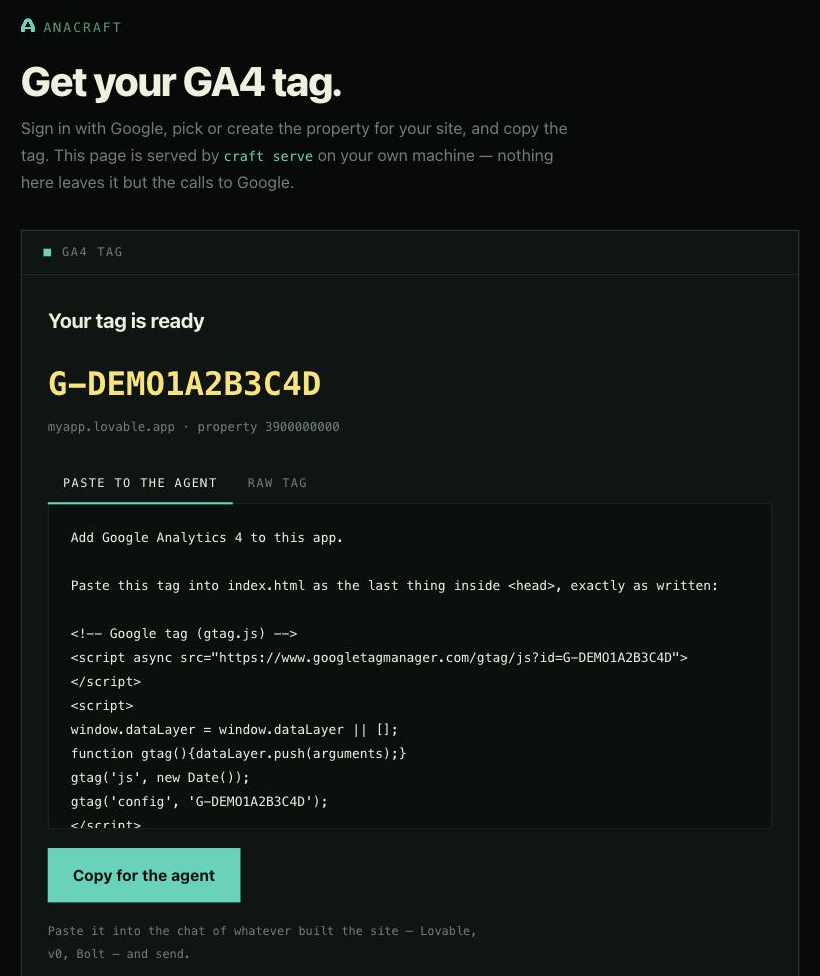
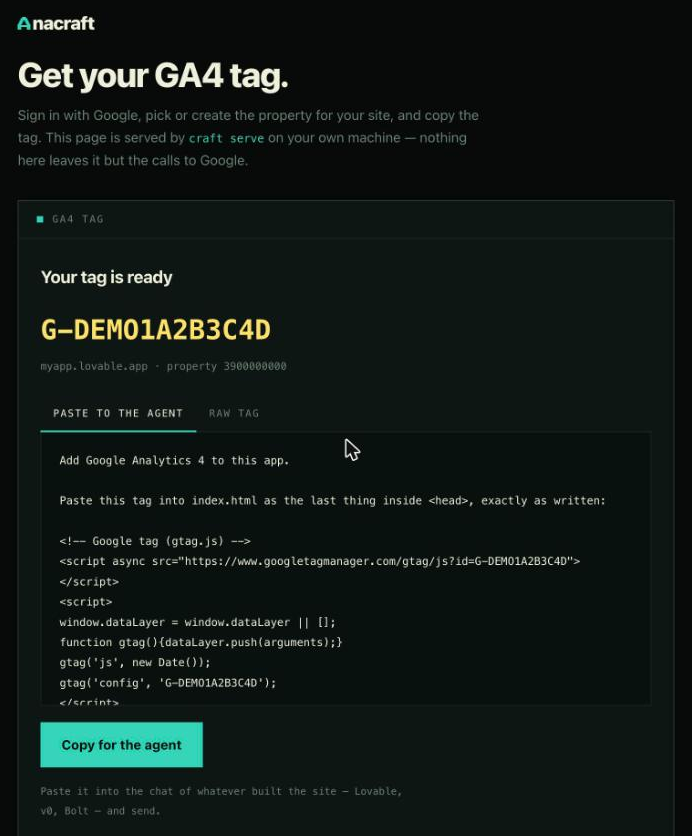
feat: craft serve wears the site's mark, and can throw a property away
Two things the page was missing.

The mark is the one the rest of the site wears — the pick is the A, so the word
beside it is "nacraft" and nothing is typed twice. Archivo is not in the page
and will not be: it fetches no font, so the heaviest system sans stands in at
the same size and tracking.

And a property can now be thrown into Google's trash from the row it sits on,
which is the other half of being able to make one — an app rebuilt three times
leaves three properties behind and the console is four screens away. It is the
same call `craft delete --all` makes, and opt-in twice the same way: the id in
the path and the same id again in `?confirm=`, two clicks on the row with the
second one saying what it is about to do. Google's delete is soft — 35 days in
a trash the console restores from — which is what makes offering it from a
page defensible at all.

`--demo` refuses it outright, with the rest of the writes.

diff --git a/assets/serve.html b/assets/serve.html
@@ -42,16 +42,27 @@
 
     .wrap { max-width: 720px; margin: 0 auto; }
 
+    /* The same mark the site wears: the pick is the A, so the word beside it
+       is "nacraft" and nothing has to be typed twice. Archivo is not here —
+       the page is self-contained and fetches no font — so the heaviest system
+       sans stands in, at the same size and tracking. */
     .brand {
       display: flex;
       align-items: baseline;
-      gap: 8px;
-      font-family: var(--mono);
-      font-size: 12px;
-      letter-spacing: .16em;
-      text-transform: uppercase;
-      color: var(--jade-deep);
-      margin-bottom: 18px;
+      gap: 0;
+      font-weight: 900;
+      font-size: 20px;
+      letter-spacing: -.03em;
+      color: var(--white);
+      margin-bottom: 20px;
+    }
+
+    .brand svg {
+      width: 14px;
+      height: 14px;
+      display: block;
+      margin-right: 2px;
+      color: var(--jade);
     }
 
     h1 {
@@ -165,19 +176,44 @@
 
     .row {
       display: flex;
-      align-items: baseline;
-      gap: 12px;
-      width: 100%;
-      text-align: left;
-      background: none;
-      border: 0;
+      align-items: center;
       border-bottom: 1px solid var(--line);
-      padding: 13px 8px;
-      color: inherit;
       transition: background .12s;
     }
 
-    .row:hover, .row:focus-visible { background: var(--ink); outline: none; }
+    .row:hover { background: var(--ink); }
+
+    .choose {
+      display: flex;
+      align-items: baseline;
+      gap: 12px;
+      flex: 1;
+      min-width: 0;
+      text-align: left;
+      background: none;
+      border: 0;
+      padding: 13px 8px;
+      color: inherit;
+    }
+
+    .choose:focus-visible { outline: 1px solid var(--jade); outline-offset: -2px; }
+
+    /* Quiet until the row is under the pointer: throwing a property away is
+       not something to offer as prominently as picking one. */
+    .bin {
+      background: none;
+      border: 0;
+      padding: 13px 10px;
+      font-family: var(--mono);
+      font-size: 11px;
+      color: var(--dim);
+      opacity: 0;
+      transition: opacity .12s, color .12s;
+    }
+
+    .row:hover .bin, .bin:focus-visible, .bin.armed { opacity: 1; }
+    .bin:hover { color: var(--coral); }
+    .bin.armed { color: var(--coral); }
     .row .nm { font-size: 14.5px; color: var(--white); overflow-wrap: anywhere; }
     .row .id { font-family: var(--mono); font-size: 11.5px; color: var(--jade-deep); }
     .row .ac { margin-left: auto; padding-left: 12px; font-family: var(--mono); font-size: 11px; color: var(--dim); }
@@ -297,8 +333,8 @@
 <body>
   <div class="wrap">
     <div class="brand">
-      <svg width="13" height="13" viewBox="1 1 14 14" shape-rendering="crispEdges" fill="var(--jade)"
-        aria-hidden="true">
+      <svg class="pick" role="img" aria-label="A" width="14" height="14" viewBox="1 1 14 14"
+        shape-rendering="crispEdges" fill="currentColor">
         <rect x="6" y="1" width="4" height="1" />
         <rect x="5" y="2" width="6" height="1" />
         <rect x="4" y="3" width="8" height="1" />
@@ -321,8 +357,7 @@
         <rect x="11" y="13" width="4" height="1" />
         <rect x="1" y="14" width="4" height="1" />
         <rect x="11" y="14" width="4" height="1" />
-      </svg>
-      anacraft
+      </svg>nacraft
     </div>
 
     <h1>Get your GA4 tag.</h1>
@@ -403,7 +438,12 @@
 
         <div class="pane" data-pane="pick">
           <h2>Pick this site's property</h2>
-          <p>One property per site, so each site's numbers are its own.</p>
+          <p>
+            One property per site, so each site's numbers are its own. A site
+            rebuilt a few times leaves a few behind — hover a row to throw one
+            into the Analytics trash, where Google keeps it restorable for 35
+            days.
+          </p>
           <div class="list" id="rows"></div>
           <div class="acts">
             <button class="lnk" id="signout" type="button">sign out</button>
@@ -624,9 +664,12 @@
       // ── the property ────────────────────────────────────────────────
 
       function row(name, id, account, onPick, make) {
+        var wrap = document.createElement('div');
+        wrap.className = 'row' + (make ? ' make' : '');
+
         var b = document.createElement('button');
         b.type = 'button';
-        b.className = 'row' + (make ? ' make' : '');
+        b.className = 'choose';
         [['nm', name], ['id', id], ['ac', account]].forEach(function (pair) {
           if (!pair[1]) { return; }
           var span = document.createElement('span');
@@ -637,6 +680,47 @@
           b.appendChild(span);
         });
         b.addEventListener('click', onPick);
+        wrap.appendChild(b);
+
+        // A property can be thrown away from here, which is the other half of
+        // being able to make one: a Lovable app rebuilt three times leaves
+        // three properties behind, and the console is four screens away.
+        if (id && !make) { wrap.appendChild(bin(name, id)); }
+        return wrap;
+      }
+
+      /* Two clicks, and the second one says what it is doing. No `confirm()`
+       * — a modal dialog stops the page dead and reads like the browser
+       * asking rather than us. The arming lapses after five seconds, so a
+       * click left behind by somebody who walked away does not stay loaded. */
+      function bin(name, id) {
+        var b = document.createElement('button');
+        b.type = 'button';
+        b.className = 'bin';
+        b.title = 'Move this property to the Analytics trash';
+        b.textContent = 'trash';
+
+        var timer = null;
+        b.addEventListener('click', function (e) {
+          e.stopPropagation();
+          if (!b.classList.contains('armed')) {
+            b.classList.add('armed');
+            b.textContent = 'really? →';
+            timer = setTimeout(function () {
+              b.classList.remove('armed');
+              b.textContent = 'trash';
+            }, 5000);
+            return;
+          }
+          clearTimeout(timer);
+          busy('moving “' + name + '” to the trash');
+          // The id twice, which is what the endpoint asks for: a request built
+          // wrong by a script has to be wrong the same way twice.
+          api('DELETE', '/v1/properties/' + encodeURIComponent(id) +
+            '?confirm=' + encodeURIComponent(id))
+            .then(function () { chosen = null; list(); })
+            .catch(stop);
+        });
         return b;
       }
 
@@ -670,7 +754,7 @@
             var rows = $('streams');
             rows.textContent = '';
             web.forEach(function (s) {
-              rows.appendChild(row(s.url || s.name || 'web stream', s.measurement_id, '', function () {
+              rows.appendChild(row(s.url || s.name || 'web stream', '', s.measurement_id, function () {
                 done(s.measurement_id);
               }));
             });

diff --git a/docs/serve.html b/docs/serve.html
@@ -388,7 +388,7 @@ it is the same OAuth client and the same two Analytics scopes.</div>
 <div class="step"><b>Copy the tag.</b> The gtag.js snippet with the measurement id already in both of the
 places it belongs, and a paste-ready prompt for
 <a href="/lovable.html">Lovable</a>, v0, Bolt or whatever built the site.</div>
-<p><img src="serve.png" width="820" height="976" loading="lazy"
+<p><img src="serve.png" width="692" height="836" loading="lazy"
   style="display:block;width:100%;max-width:560px;height:auto;margin:22px 0 6px;border:1px solid var(--line-2);"
   alt="The page craft serve opens, showing a measurement id in gold with the tag written out below it and a button that copies it."></p>
 <p>The page is handed the run token in the URL it is opened with; the credentials stay with the CLI,
@@ -418,6 +418,7 @@ characters while doing it.</p>
   <tr><td>POST /v1/subscription/checkout</td><td>A Stripe checkout URL, already tied to this account.</td><td>account</td></tr>
   <tr><td>GET /v1/properties</td><td>Every GA4 property this login can see.</td><td>account</td></tr>
   <tr><td>POST /v1/properties</td><td>Create a property and its web stream. Returns the tag.</td><td>plan</td></tr>
+  <tr><td>DELETE /v1/properties/{id}</td><td>Move a property to the Analytics trash. Wants the id twice.</td><td>account</td></tr>
   <tr><td>GET /v1/properties/{id}/streams</td><td>The web data streams on a property, with their ids.</td><td>account</td></tr>
   <tr><td>POST /v1/properties/{id}/streams</td><td>Add a web stream to a property that has none. Returns the tag.</td><td>plan</td></tr>
   <tr><td>PUT /v1/property</td><td>Set the default property, the way <code>craft use</code> does.</td><td>account</td></tr>
@@ -500,6 +501,23 @@ POST <span class="k">/v1/properties/397890123/streams</span>
 <code>properties.create</code> and <code>dataStreams.create</code>. Nothing here updates or deletes
 anything in an Analytics account — <code>craft delete</code> stays a command somebody has to type.</p>
 
+<h3>Throwing one away</h3>
+<p>The other half of being able to make a property: an app rebuilt three times leaves three of them
+behind, and the Analytics console is four screens away.</p>
+<pre class="code">DELETE <span class="k">/v1/properties/397890123?confirm=397890123</span>
+<span class="d">→ 200  { "property": "397890123",</span>
+<span class="d">         "state": "trashed",</span>
+<span class="d">         "forgotten": true,</span>
+<span class="d">         "restorable_days": 35 }</span></pre>
+<p>The id goes in twice — once in the path and once in <code>confirm</code> — so a request built wrong
+by a script has to be wrong the same way twice. It is the same opt-in-twice the CLI asks for, where
+the command needs a subcommand and then a flag.</p>
+<p>Google's delete is a soft one, which is what makes this defensible: the property goes to the
+account's trash and sits there for <b>35 days</b>, fully restorable from the console, before anything
+is actually gone. The undo is Google's, it is where a person would look for it, and nothing here can
+shorten it. <code>forgotten</code> says whether this machine was also opening on that property and has
+stopped.</p>
+
 <h2><span class="n">07</span>Reading the numbers</h2>
 <p>The read endpoints take the same two parameters and answer the same shape.</p>
 <table class="tbl">
@@ -546,8 +564,9 @@ caller from spending the API quota the dashboard needs.</p>
   of this that belongs on a network you do not control.</li>
   <li><b>Answer without a token.</b> One endpoint is open, and it returns a version string.</li>
   <li><b>Trust an origin it was not told about.</b> No wildcard CORS, in either posture.</li>
-  <li><b>Write anything to an Analytics account beyond the two creates above.</b> No updates, no
-  deletes, no key events — those live behind commands a person runs.</li>
+  <li><b>Write anything to an Analytics account beyond the two creates and the one delete above.</b>
+  No updates, no key events, no settings — those live behind commands a person runs. And the delete
+  is Google's soft one, asked for twice.</li>
   <li><b>Outlive its usefulness.</b> It stops after an hour with nothing to do: a server started to
   hand over one tag should not still be listening the next morning.</li>
 </ul>

diff --git a/docs/lovable.html b/docs/lovable.html
@@ -935,7 +935,7 @@
               <span class="c"># or look before you sign in to anything:</span>
               <span class="w">craft serve --demo</span></div>
 
-            <img class="shot" src="serve.png" width="820" height="976" loading="lazy"
+            <img class="shot" src="serve.png" width="692" height="836" loading="lazy"
               alt="The page craft serve opens: a measurement ID in gold, the tag written out below it, and a button that copies it.">
 
             <p style="margin-top:20px;">

diff --git a/src/serve.rs b/src/serve.rs
@@ -115,6 +115,7 @@ pub async fn run(opts: Options) -> Result<()> {
         .route("/v1/subscription", get(subscription))
         .route("/v1/subscription/checkout", axum::routing::post(checkout))
         .route("/v1/properties", get(properties).post(register))
+        .route("/v1/properties/:id", axum::routing::delete(trash))
         .route("/v1/properties/:id/streams", get(streams).post(add_stream))
         .route("/v1/property", put(use_property))
         .route("/v1/tag/:measurement_id", get(tag))
@@ -698,6 +699,61 @@ async fn add_stream(
 }
 
 #[derive(Deserialize)]
+struct Confirm {
+    confirm: Option<String>,
+}
+
+/// Move a property to Google's trash — the one destructive call in this API,
+/// and the same one `craft delete --all` makes.
+///
+/// What keeps it defensible is that Google's delete is a soft one: the
+/// property sits in the account's trash for 35 days, fully restorable from the
+/// console, before anything is actually gone. The undo is Google's, it is
+/// where a person would look for it, and nothing here can shorten it.
+///
+/// It is opt-in twice, the way the command is. The command needs a subcommand
+/// and then a flag; this needs the id in the path and the same id again in
+/// `?confirm=`, so a `DELETE` aimed at the wrong row by a script that built
+/// its URL wrong has to be wrong the same way twice.
+async fn trash(
+    State(app): State<Arc<App>>,
+    Path(id): Path<String>,
+    Query(query): Query<Confirm>,
+) -> Answer {
+    if app.demo {
+        return Err(demo_only("deleting a property"));
+    }
+    let property = bare(&id);
+    if query.confirm.as_deref().map(bare).as_deref() != Some(property.as_str()) {
+        return Err(Fail::bad(format!(
+            "deleting is confirmed by saying the id twice — DELETE /v1/properties/{property}?confirm={property}"
+        )));
+    }
+
+    let ga = client()?;
+    ga.delete_property(&property).await?;
+
+    // Google first, then here — the same order the command uses, because
+    // forgetting is local and reversible and a failed API call is not a
+    // reason to have already pointed the dashboard away from a property that
+    // is still sitting there collecting.
+    let mut cfg = Config::load().map_err(Fail::from)?;
+    let forgotten = cfg.remove(&property);
+    if forgotten {
+        cfg.save().map_err(Fail::from)?;
+    }
+
+    Ok(Json(json!({
+        "property": property,
+        "state": "trashed",
+        "forgotten": forgotten,
+        "restorable_days": 35,
+        "note": "moved to the Analytics trash — it has stopped collecting, and Google keeps it \
+                 restorable from the console for 35 days",
+    })))
+}
+
+#[derive(Deserialize)]
 struct Chosen {
     id: String,
 }
@@ -1007,6 +1063,16 @@ mod tests {
     fn a_property_id_is_taken_in_either_spelling() {
         assert_eq!(bare("properties/397412345"), "397412345");
         assert_eq!(bare(" 397412345 "), "397412345");
+    }
+
+    #[test]
+    fn deleting_asks_for_the_id_twice() {
+        // The check itself is in the handler, which needs a server to call.
+        // What is testable without one is the pair it compares — and that both
+        // spellings of a property id land on the same string, so a `confirm`
+        // written as `properties/1` still matches a path of `1`.
+        assert_eq!(bare("properties/397412345"), bare("397412345"));
+        assert_ne!(bare("397412345"), bare("397412346"));
     }
 
     #[test]

diff --git a/docs/oauth-scopes.md b/docs/oauth-scopes.md
@@ -55,10 +55,13 @@ The same two calls as `craft configure`, made for a page in a browser instead
 of a terminal. `craft serve` runs an HTTP API on `127.0.0.1` and opens a page
 on it where somebody signs in, picks or creates a property, and copies the tag;
 `POST /v1/properties` is `craft configure` underneath, calling the same
-`configure::setup` and so making `properties.create` and `dataStreams.create`
-and nothing else.
+`configure::setup` and so making `properties.create` and `dataStreams.create`.
+`DELETE /v1/properties/{id}` is `craft delete --all` underneath, making
+`properties.delete` — Google's soft delete, into a trash the console restores
+from for 35 days — and it is opt-in twice the way the command is: the id in the
+path, and the same id again in `?confirm=`.
 
-It adds no scope and no endpoint. What it adds is a second way to reach the two
+It adds no scope and no call. What it adds is a second way to reach the three
 that are already here, which is why it is named: the surface a reviewer can run
 is not the same as the surface a reviewer is told about unless both are
 written down. Every endpoint it serves is at

diff --git a/README.md b/README.md
@@ -97,7 +97,8 @@ an API the whole of which is documented at
 [anacraft.dev/serve.html](https://anacraft.dev/serve.html) — so a script, an
 editor extension or another service can register a tag the same way. It creates
 nothing `craft configure` would not create, behind the same plan and the same
-two Admin API calls.
+two Admin API calls — and it can throw a property into Google's trash the way
+`craft delete --all` does, asking for the id twice before it will.
 
 ### One-shot reports
 
